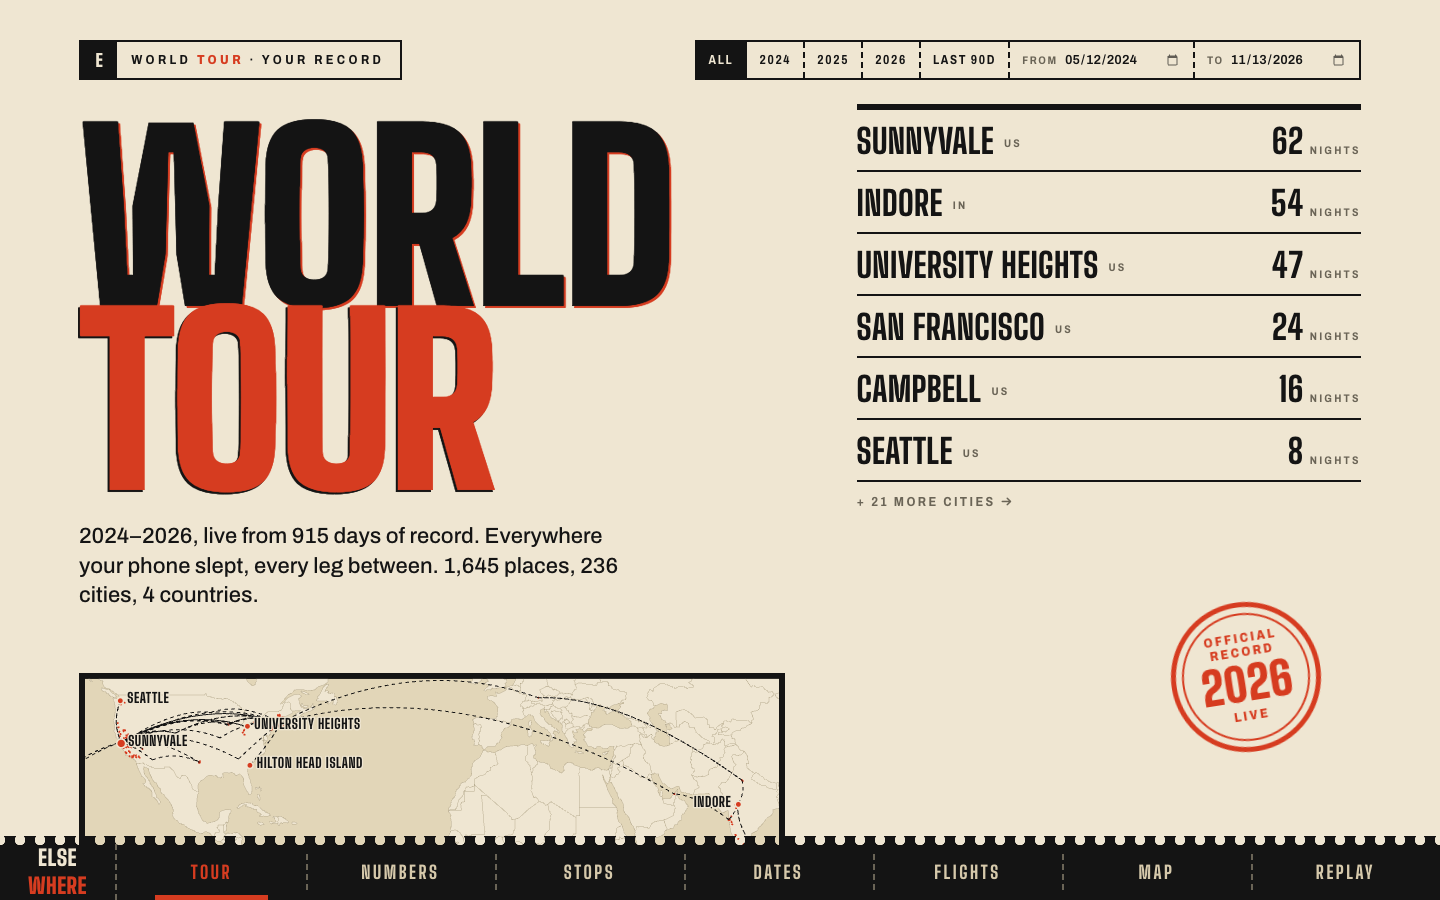
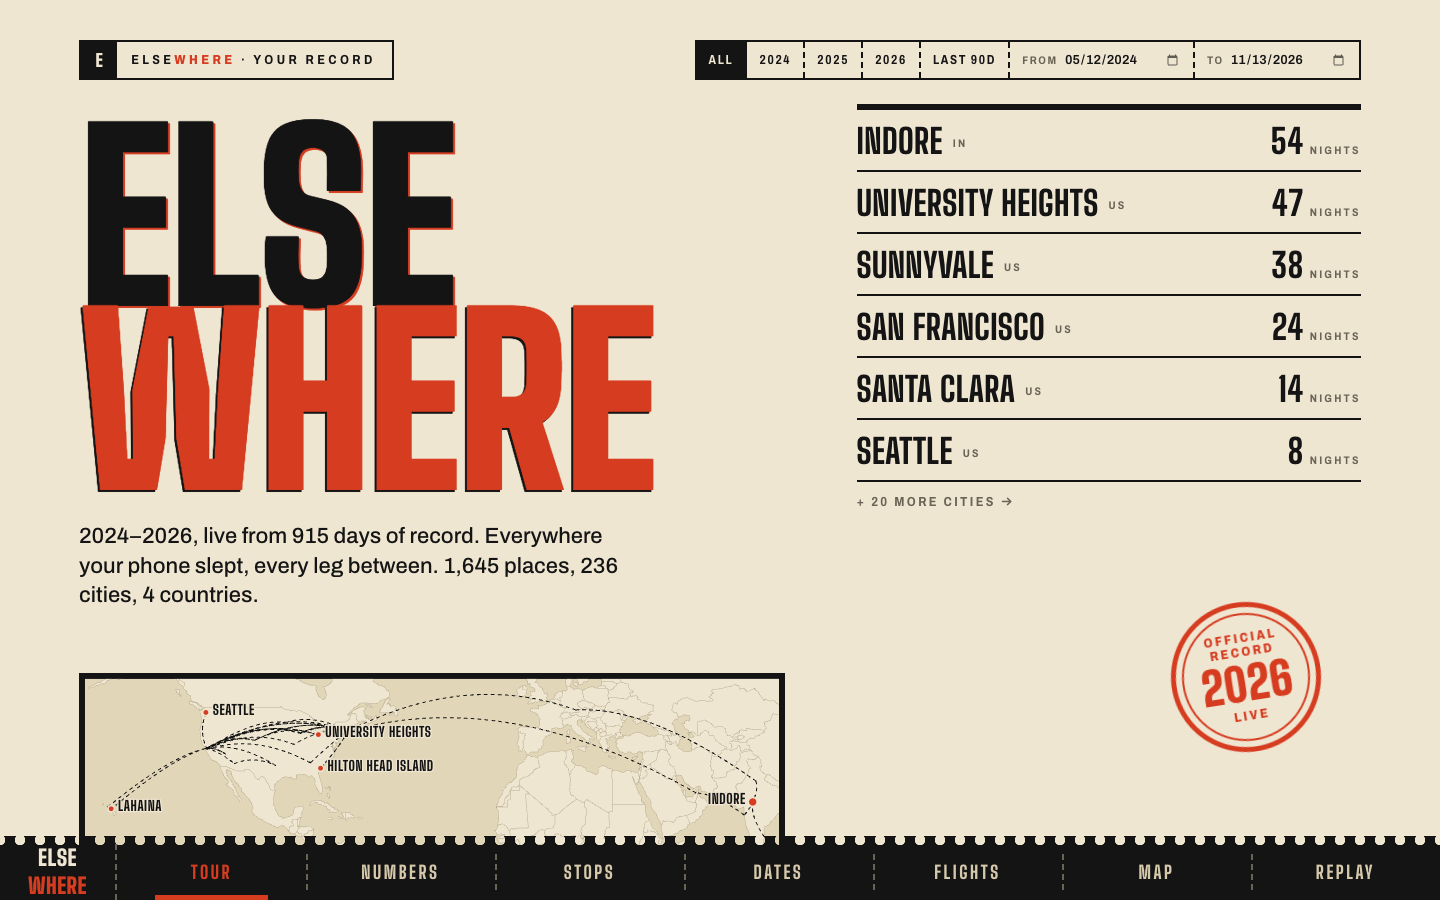
Onboarding asks when each home started; README front door

diff --git a/web/src/profile/Onboarding.tsx b/web/src/profile/Onboarding.tsx
@@ -51,7 +51,6 @@ export function Onboarding({ data, demo, stage, importError, importFile, initial
   const pickHome = (s: Suggestion) => { setHomes([asHome(s)]); if (!initial) setUnits(MILES.has(s.cc ?? '') ? 'mi' : 'km') }
   const label = (s: Suggestion) => data?.places[s.place_id]?.name ?? s.city ?? 'Unnamed place'
   const isSame = (h: Home, s: Suggestion) => h.lat === s.lat && h.lng === s.lng
-  const monthOf = (ts: number) => new Date(ts * 1000).toISOString().slice(0, 7)
   const range = data?.meta.range ?? [0, 0]
 
   return (
@@ -109,11 +108,12 @@ export function Onboarding({ data, demo, stage, importError, importFile, initial
                 ))}
                 {!sleep.length && <p className="lede">No overnight stays found in this record.</p>}
               </div>
+              {homes.length > 0 && <HomeList homes={homes} setHomes={setHomes} range={range} hint="Since when? Leave it blank if you lived here for the whole record." />}
             </Q>
           )}
 
           {step === 'moved' && (
-            <Q n={3} title="Did you live anywhere else?" sub={moves.length ? `Your nights shift in ${moves.map((m) => m.month).join(' and ')}. Tap a place to add it as a home from then on.` : 'Add another home and the month it started. Skip if you stayed put.'} onBack={back} onNext={next} skip={next}>
+            <Q n={3} title="Did you live anywhere else?" sub={moves.length ? `Your nights shift in ${moves.map((m) => m.month).join(' and ')}. Tap a place to add it as a home, then set the month each one started.` : 'Add another home and the month it started. Skip if you stayed put.'} onBack={back} onNext={next} skip={next}>
               <div className="ob-tags">
                 {sleep.filter((s) => !homes.some((h) => isSame(h, s))).map((s) => {
                   const mv = moves.find((m) => m.to === s.place_id)
@@ -127,15 +127,7 @@ export function Onboarding({ data, demo, stage, importError, importFile, initial
                   )
                 })}
               </div>
-              <ol className="ob-homes" aria-label="Your homes">
-                {[...homes].sort((a, b) => a.from - b.from).map((h) => (
-                  <li key={`${h.lat},${h.lng}`}>
-                    <span className="name">{h.city || 'Home'}</span>
-                    <label className="ob-month"><span className="lab">from</span><input type="month" value={h.from ? monthOf(h.from) : ''} min={monthOf(range[0])} max={monthOf(range[1])} onChange={(e) => setHomes(homes.map((x) => x === h ? { ...x, from: e.target.value ? Date.parse(e.target.value + '-01') / 1000 : 0 } : x))} aria-label={`${h.city} from`} /></label>
-                    {homes.length > 1 && <button className="btn quiet" onClick={() => setHomes(homes.filter((x) => x !== h))}>Remove</button>}
-                  </li>
-                ))}
-              </ol>
+              <HomeList homes={homes} setHomes={setHomes} range={range} />
             </Q>
           )}
 
@@ -180,6 +172,26 @@ function Q({ n, title, sub, children, onNext, onBack, skip, nextLabel = 'Next' }
         {skip && <button className="btn quiet" onClick={skip}>Skip</button>}
         {onBack && <button className="btn quiet ob-back" onClick={onBack}>Back</button>}
       </div>
+    </div>
+  )
+}
+
+const monthOf = (ts: number) => new Date(ts * 1000).toISOString().slice(0, 7)
+
+/** Chosen homes with the month each became home; blank means "from the start of the record". */
+function HomeList({ homes, setHomes, range, hint }: { homes: Home[]; setHomes: (h: Home[]) => void; range: [number, number]; hint?: string }) {
+  return (
+    <div className="ob-homelist">
+      {hint && <p className="ob-hint">{hint}</p>}
+      <ol className="ob-homes" aria-label="Your homes">
+        {[...homes].sort((a, b) => a.from - b.from).map((h) => (
+          <li key={`${h.lat},${h.lng}`}>
+            <span className="name">{h.city || 'Home'}</span>
+            <label className="ob-month"><span className="lab">home since</span><input type="month" value={h.from ? monthOf(h.from) : ''} min={monthOf(range[0])} max={monthOf(range[1])} onChange={(e) => setHomes(homes.map((x) => x === h ? { ...x, from: e.target.value ? Date.parse(e.target.value + '-01') / 1000 : 0 } : x))} aria-label={`${h.city} home since`} /></label>
+            {homes.length > 1 && <button className="btn quiet" onClick={() => setHomes(homes.filter((x) => x !== h))}>Remove</button>}
+          </li>
+        ))}
+      </ol>
     </div>
   )
 }

diff --git a/web/src/profile/onboarding.css b/web/src/profile/onboarding.css
@@ -36,11 +36,14 @@
 .ob-tag[aria-pressed='true'] .sub, .ob-tag[aria-pressed='true'] .lab { color: var(--mustard); }
 .ob-tag:focus-visible { outline: 3px solid var(--red); outline-offset: 3px; }
 
-.ob-homes { list-style: none; margin: 30px 0 0; padding: 0; display: grid; gap: 10px; max-width: 640px; }
+.ob-homelist { margin-top: 30px; }
+.ob-hint { font: 500 15px/1.4 var(--body); color: var(--ink-3); margin: 0 0 12px; max-width: 56ch; }
+.ob-homes { list-style: none; margin: 0; padding: 0; display: grid; gap: 10px; max-width: 640px; }
 .ob-homes li { display: flex; align-items: center; gap: 18px; padding: 12px 0; border-top: 2px solid var(--ink); }
 .ob-homes li:last-child { border-bottom: 2px solid var(--ink); }
 .ob-homes .name { font: 800 24px/1 var(--display); text-transform: uppercase; flex: 1; }
 .ob-month { display: flex; align-items: center; gap: 10px; }
+.ob-month .lab { font: 700 10px/1 var(--body); letter-spacing: 0.2em; text-transform: uppercase; color: var(--ink-3); }
 .ob-month input { font: 600 14px/1 var(--body); padding: 6px 8px; border: 2px solid var(--ink); background: transparent; color: var(--ink); }
 .ob-homes .btn { margin: 0; }
 

diff --git a/README.md b/README.md
@@ -2,7 +2,7 @@
 <p align="center"><strong>Your Google Maps Timeline, printed as a world-tour poster.</strong><br>
 Every city you slept in, every flight, every drive — replayed on a map. Runs entirely in your browser.</p>
 
-<p align="center"><img src="docs/screenshots/home.png" width="800" alt="Tour page: a big WORLD TOUR headline, nights per city, and a dotted route map"></p>
+<p align="center"><img src="docs/screenshots/home.png" width="800" alt="Tour page: a big ELSEWHERE headline, nights per city, and a dotted route map"></p>
 
 ## What you get
 
@@ -11,6 +11,7 @@ Every city you slept in, every flight, every drive — replayed on a map. Runs e
 - **Replay** — press play and watch yourself move through time. Planes, cars, trains and walks each get their own colour and marker; a speed slider goes from real-time to years-in-seconds.
 - **Stops, Dates, Numbers, Map** — the places you keep returning to, a calendar of where you were, the stats, and the full trail.
 - **Pick any range** — a year, the last 90 days, or any two dates. Everything updates.
+- **Yours, not guessed** — a one-minute setup asks your name, where home is (and was), and where you work. Trips, nights away and distances all start from *your* home, not Google's guess.
 
 <p align="center">
 <img src="docs/screenshots/flights.png" width="400" alt="Flights: globe with red routes and labelled airports">
@@ -30,14 +31,15 @@ git clone https://github.com/vsvinav/elsewhere && cd elsewhere/web
 npm install && npm run dev
 ```
 
-Open the local URL, scroll to **Your record** on the Tour page and:
+Open the local URL. The front door asks for two things, then five quick questions:
 
 1. **Drop in your `Timeline.json`.**
    Android: Settings → Location → Timeline → Export.
    iPhone: Google Maps → your photo → Your timeline → ⋯ → Export.
-2. **Paste a Google Maps key** (free tier is plenty) so the Map and Replay pages can draw tiles. Get one at [console.cloud.google.com](https://console.cloud.google.com/google/maps-apis), enable *Maps JavaScript API*, and restrict it to `localhost` / your domain. Optional: a Map ID gives smoother vector tiles.
+2. **Paste a Google Maps key** (free tier is plenty) so the Map and Replay pages can draw tiles. Get one at [console.cloud.google.com](https://console.cloud.google.com/google/maps-apis), enable *Maps JavaScript API*, and restrict it to `localhost` / your domain.
+3. **Name, home, moves, work, units.** Home candidates are ranked by where your phone sleeps; tap one. Every question can be changed later from *Edit profile* on the Tour page.
 
-Both live in your browser's local storage. Nothing is committed, nothing is uploaded.
+Everything lives in your browser's local storage. Nothing is committed, nothing is uploaded.
 
 ## Deploy your own
 
@@ -53,7 +55,8 @@ The browser import is all you need. If you'd rather build the data files once an
 
 ```bash
 python3 -m venv .venv && source .venv/bin/activate && pip install -e ".[dev]"
-python -m pipeline build Timeline.json                       # → web/public/data/
+python -m pipeline build Timeline.json --home LAT,LNG        # → web/public/data/
+#   repeat --home LAT,LNG,YYYY-MM for each move; add --work LAT,LNG if you like
 GOOGLE_MAPS_API_KEY=… python -m pipeline enrich --top 2000  # optional place names + photos
 ```
 
